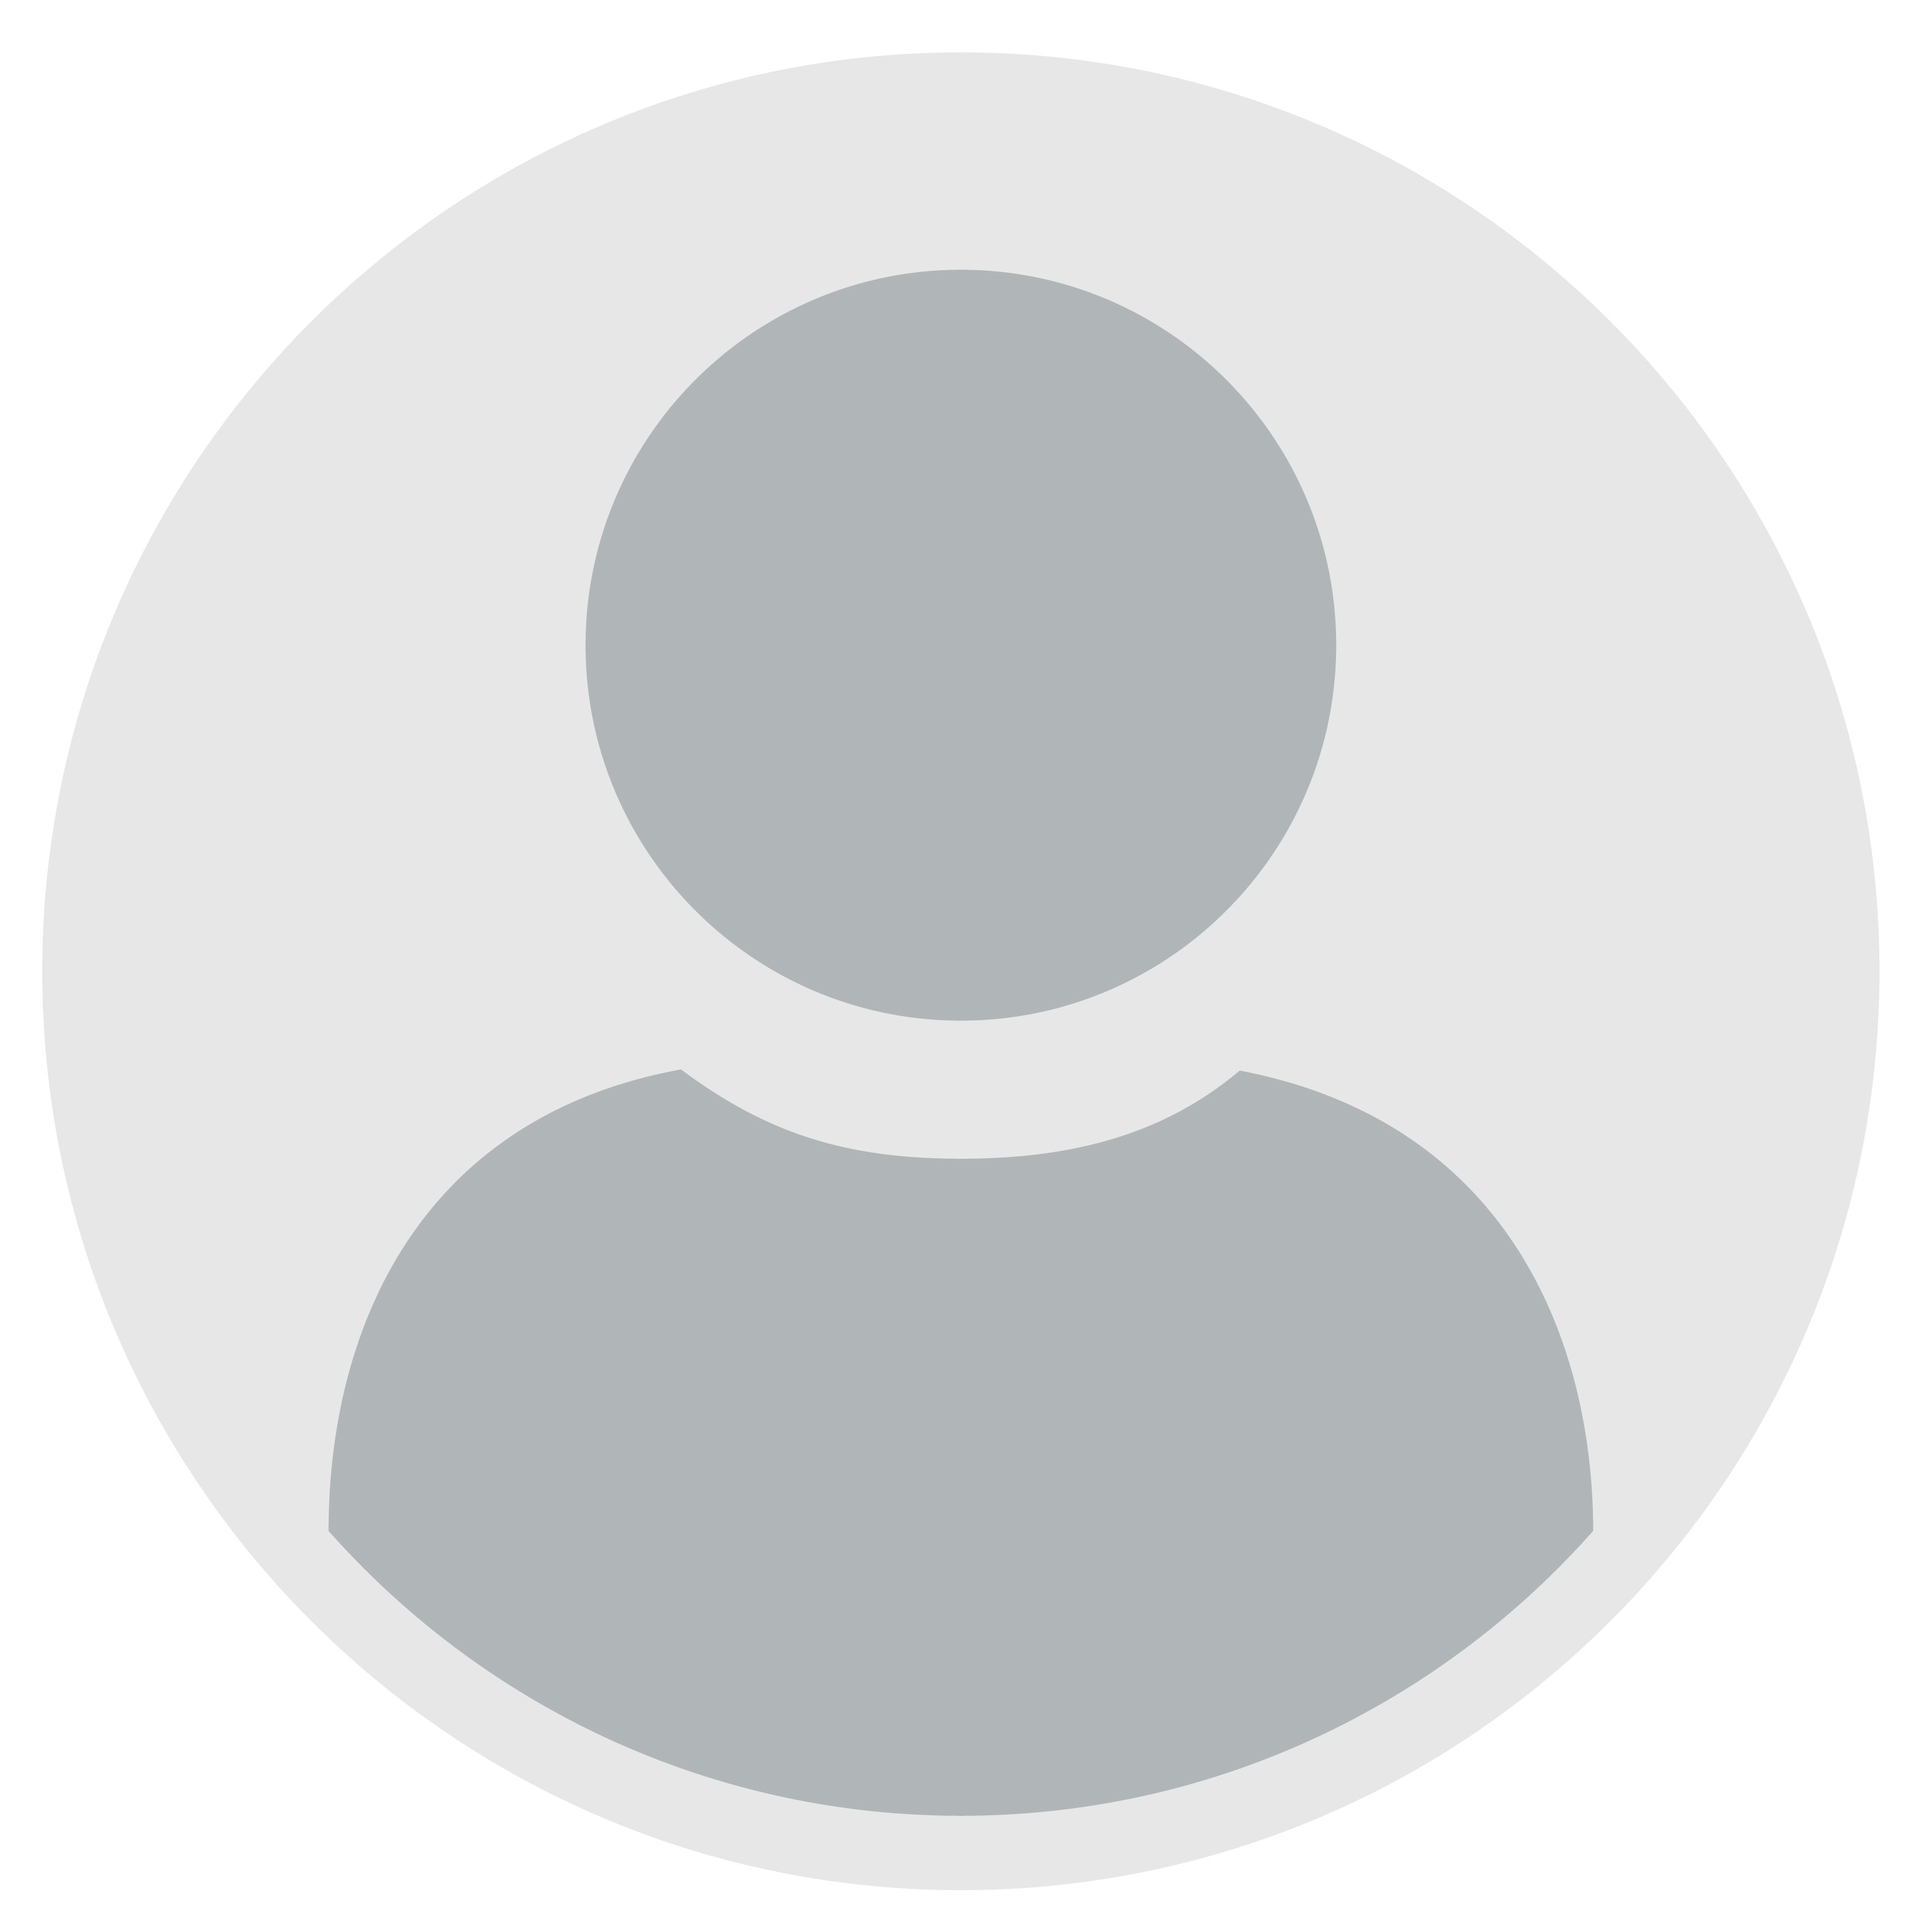
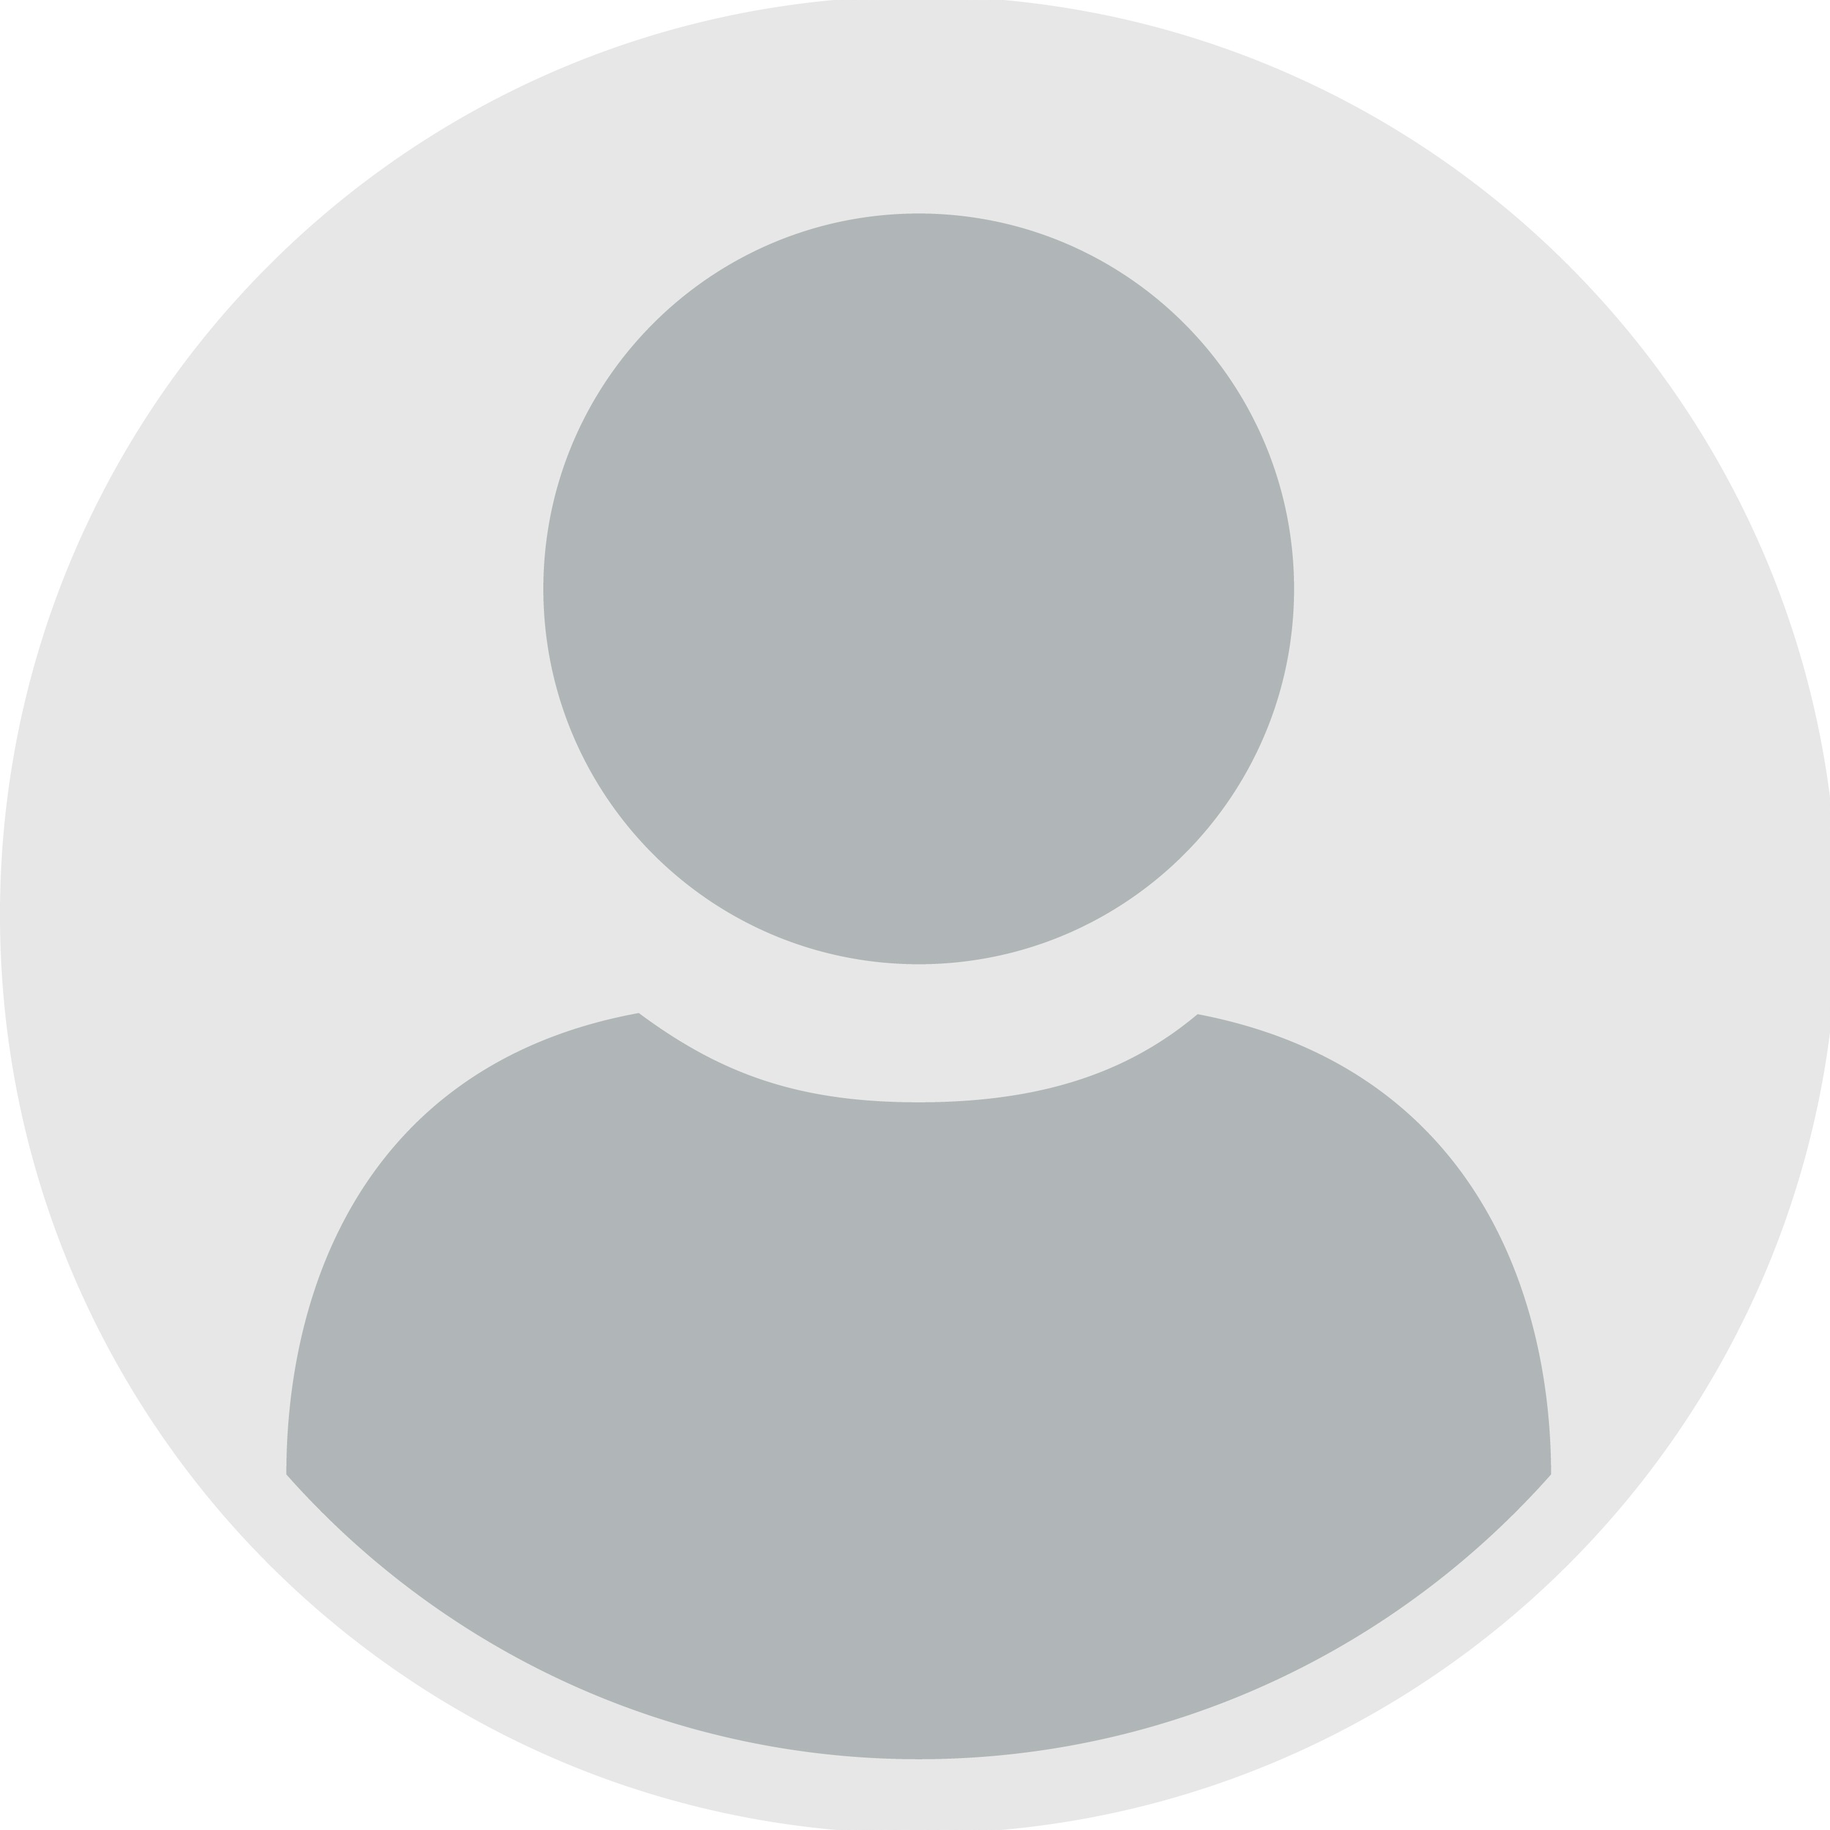
Add files via upload

diff --git a/JS/perfil.js b/JS/perfil.js
@@ -1,0 +1,43 @@
+document.addEventListener("DOMContentLoaded", function () {
+    const cheackbox = document.getElementById("i");
+    if (cheackbox) {
+        cheackbox.addEventListener("click", () => {
+            if (document.getElementById("depn").disabled == true) {
+                document.getElementById("depn").disabled = false;
+                document.getElementById("depp").disabled = false;
+            }
+            else {
+                document.getElementById("depn").disabled = true;
+                document.getElementById("depp").disabled = true;
+            }
+        });
+    }
+});
+const botoninsertar = document.getElementById("ingresar");
+botoninsertar.addEventListener("click", () => {
+    let usuarioPuesto = document.getElementById("nombre").value ? document.getElementById("nombre").value:$_SESSION['nombre_usuario'];
+    let contraseñaPuesta = document.getElementById("contra").value;
+    let contraseñanueva = document.getElementById("contran").value;
+    let ubicacion = document.getElementById("ubicacion").value ? document.getElementById("ubicacion").value:$_SESSION['nombre_usuario'];
+    let departamentonum = document.getElementById("depn").value ? document.getElementById("depn").value:$_SESSION['nombre_usuario'];
+    let departamentopiso = document.getElementById("depp").value ? document.getElementById("depp").value:$_SESSION['nombre_usuario'];
+    if (usuarioPuesto || contraseñaPuesta || contraseñanueva || ubicacion || departamentonum || departamentopiso) {
+        fetch("../perfil.php", {
+            method: "POST",
+            headers: {
+                "Content-Type": "application/x-www-form-urlencoded"
+            },
+            body: "Usuario=" + encodeURIComponent(usuarioPuesto) + "&contraseña=" + encodeURIComponent(contraseñaPuesta) + "&contraseñanueva=" + encodeURIComponent(contraseñanueva) + "&ubicacion=" + encodeURIComponent(ubicacion) + "&departamentonumero=" + encodeURIComponent(departamentonum) + "&departamentopiso=" + encodeURIComponent(departamentopiso)
+        }).then(res => res.json()).then(res => {
+            if (res.success) {
+
+            } else {
+                document.getElementById("errores").innerHTML = res.error;
+            }
+        })
+    }
+    else {
+        console.log("Escribi algo");
+    }
+
+});

diff --git a/CSS/cssPerfil.css b/CSS/cssPerfil.css
@@ -1,4 +1,46 @@
-.perfilcontenedor img{
+.bodycontenedor img{
     padding: 50px;
     height: 100px;
+    border-radius: 120px;
 }
+
+body{
+    margin:0;
+    padding:0;
+    font-family: Arial, Helvetica, sans-serif;
+    background:#eed2a8;
+}
+
+.bodycontenedor{
+    width:380px;
+    margin:90px auto;
+    padding:35px;
+    background:#f7e4c6;
+    border-radius:20px;
+    box-shadow:0 10px 25px rgba(0,0,0,.15);
+    text-align:center;
+    border:2px solid #d6b07b;
+}
+
+
+.logo{
+    width:90px;
+    margin-bottom:15px;
+}
+
+
+.bodycontenedor h2{
+    color:#7b4b2a;
+    margin-bottom:25px;
+    font-size:30px;
+}
+#i{
+    margin-top: 30px;
+}
+.bodycontenedor h4{
+    color:#7b4b2a;
+    margin-bottom:25px;
+}
+
+
+

diff --git a/JS/botonperfil.js b/JS/botonperfil.js
@@ -1,6 +1,5 @@
 document.addEventListener("DOMContentLoaded", function() {
   const botonperfil = document.getElementById("botonPerfil");
-
   if (botonperfil) {
     botonperfil.addEventListener("click", () => {
        window.location.href = "index.php?page=Perfil"; 
